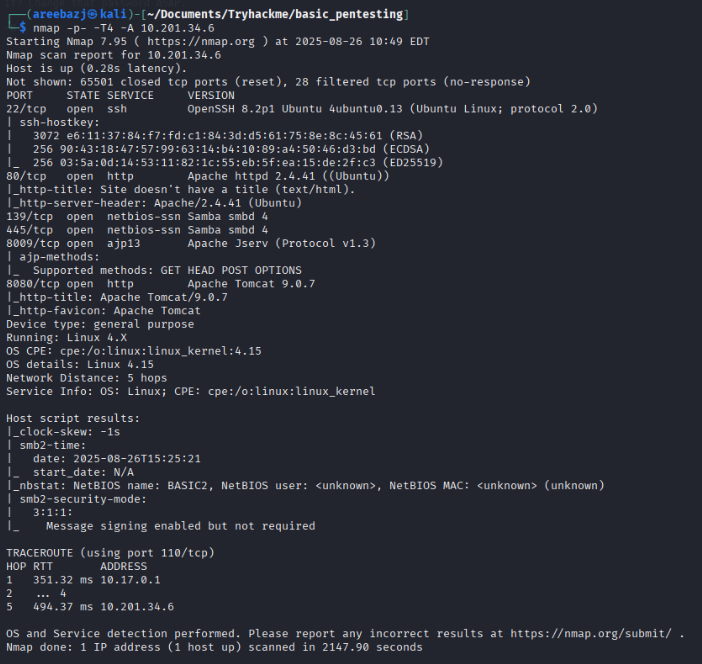
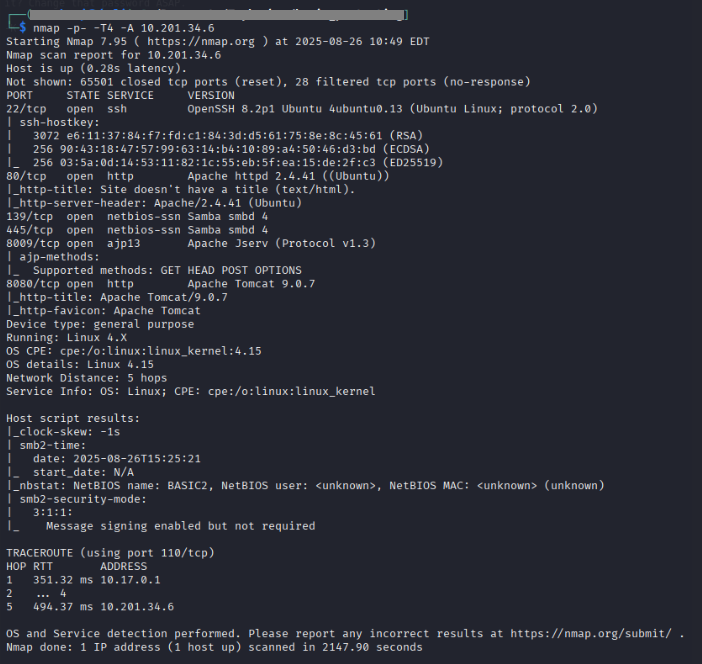
Added walkthrough for Basic Pentesting

Changed region(s): [[0.0299, 0.0, 0.5983, 0.0301]]

diff --git a/TryHackMe/Challenges/Basic Pentesting/walkthrough.md b/TryHackMe/Challenges/Basic Pentesting/walkthrough.md
@@ -9,10 +9,188 @@
 
 ![1](images/1.png)
 
+To solve this room we have to use following techniques:
+
+- brute forcing 
+
+- hash cracking 
+
+- service enumeration
+
+- Linux Enumeration
+
 ## Solution Walkthrough
 
+### 1- Deploy the machine and connect to our network
 
-![1](images/1.png)
+I used openvpn to connect to the network and then deployed the machine.
+
+### 2- Find the services exposed by the machine
+
+To find the answer of this question I did an nmap scan on the given IP using following command.
+
+`nmap -T4 <machine_ip>`
+
+This command gave us the following output .
+
+![2](images/2.png)
+
+There were alot of services but before diving deep in any of them I looked at the next question which is given below.
+
+### 3- What is the name of the hidden directory on the web server(enter name without /)?
+
+I visited the web page at port 80 but there wasn't anything interesting.
+
+![3](images/3.png)
+
+Then I opened the page source and saw the following comment.
+
+![4](images/4.png)
+
+Now we have to do directory brute forcing, for that I used OWASP dirbuster. It has a nice GUI interface you can also use some CLI tools like dirb or gobuster. 
+
+![5](images/5.png)
+
+Here I set the url to our target , then selected a wordlist . There were alot of wordlists already in my kali linux's dirbuster folder so I used a small one from that. I kept all the other things default. 
+
+![6](images/6.png)
+
+In just few seconds it gave me a directory called **development** that looked interesting . I kept the scan going on and visited this directory.
+
+![7](images/7.png)
+
+Here I find the following 2 files So , most probably this was the directory that we were looking for . I stopped my scan that was running in the background. Here is what the content of each file was:
+
+![8](images/8.png)
+
+Here we can see a coversation between 2 poeple J and K . From the conversation it seems like Apache struts and SMB are the 2 services that might be of some interest to us. They have also mentioned the version explicitly.
+
+![9](images/9.png)
+
+The next conversation shows that user J might have some weak credentials.
+
+At this point we have some suspicious services so to know a little more about them I tried the following nmap command.
+
+`nmap -p- -T4 -A <machine_ip>`
+
+It gave us detailed info about each service.
+
+![10](images/10.png)
+
+From here I got on a wrong track . Feel free to skip this part and jump to part 4. 
+
+I saw that apache tomcat 9.0.7 was running on port 8080 . I searched for it on the internet and found that it had a vulnerability. 
+
+![11](images/11.png)
+
+Then I also got a bit info about this from Rapid7.
+
+![12](images/12.png)
+
+I searched for it on msfconsole and found 2 things an exploit and an auxiliary module.
+
+![13](images/13.png)
+
+In my mind I was thinking of maybe we can read etc/shadow in some way as it had some weak creds . I ended up using this but after running it wasn't successful.
+
+![14](images/14.png)
+
+![15](images/15.png)
+
+![16](images/16.png)
+
+
+### 4- User brute-forcing to find the username & password
+
+From here I got back on track . Since SMB was running I used smbclient to access and list down all the SMB shares . 
+
+`smbclient -L //IP/ -N`
+
+here I used -N so that it will list all shares where anonymous access (access without password) is allowed.
+
+![17](images/17.png)
+
+Here I found a share named `Anonymous` and accessed it using the following command:
+
+`smbclient //IP/Anonymous -N`
+
+The above command listed all the commands I can use .I used the `l` command to list all the files and found a file named **staff.txt** then downloaded it using the `get <file_name>` command.
+
+
+### 5- What is the username?
+
+Here we had names of two users in the file and the one related to -J was correct.
+
+![18](images/18.png)
+
+I also tried another way for finding out the users by using enum4linux . Enum4linux is a tool for enumerating information from Windows and Samba systems. I used the following command to start enumeration.
+
+`enum4linux -a <machine_ip>`
+
+here I used the -a flag so that it can run all the options without me telling each flag seperately for users,shares etc.
+
+![20](images/20.png)
+
+![21](images/21.png)
+
+We can see in the above image that we again found both those users.
+
+### 6- What is the password?
+
+Now, we have to find the password . For this I used a tool called hydra. It is a fast, popular password-cracking tool used in cybersecurity. It carries out brute force or dictionary based attacks against passwords.
+
+For users we had two Jan and Kay so we can either put both of them in a file and use that file as a list of users whose password we have to crack.
+
+![19](images/19.png)
+
+Or just try one by one. I first tried to break Jan's password , for that I used the following command:
+
+`hydra -l jan -P /usr/share/wordlists/rockyou.txt <machine_ip> ssh`
+
+here `-l` is for username `-P` is for list of possible password i.e. wordlist. Here I used rockyou.txt which is a popular wordlist usually used in CTFs. ssh at the end is for defining that we are searching for passwords for SSH service.
+
+After just a little while we got our password.
+
+![22](images/22.png)
+
+
+### 7- What service do you use to access the server(answer in abbreviation in all caps)?
+
+we used the same service for which we searched the password for and used both username and password to login and we were successful.
+
+![23](images/23.png)
+
+### 8- Enumerate the machine to find any vectors for privilege escalation
+
+After going through the files I found a file pass.bk in the folder of another user Kay but it was owned by that user then, I also found a private ssh key for that user too.
+
+![24](images/24.png)
+
+### 9- What is the name of the other user you found(all lower case)?
+
+It's so obvious at this point, we found it the same time we found our first user.
+
+### 10- If you have found another user, what can you do with this information?
+
+Since, now we have the private key of the second user we can try logging in through his account using ssh.
+
+Then on my local pc I saved that key in a file named **id_rsa** . Then I changed the permissions to 600 which is necessary for RSA key files. Then I used john the ripper to crack this key and find password from it , for this I used the following commands.
+
+![25](images/25.png)
+
+Now i used the following command to log in through SSH and used the private key file to log in.
+
+`ssh -i id_rsa kay@<machine_ip>`
+
+Then entered the password and got access.
+
+![26](images/26.png)
+
+### 11- What is the final password you obtain?
+
+Now we were able to access the pass.bak file and got the password.
+
+![27](images/27.png)
 
 So, just like that we have now completed our room.
 
@@ -20,5 +198,9 @@ So, just like that we have now completed our room.
 
 Following are some tools that I used in solving this room.
 
-1- [exiftool](https://exiftool.org/)                 
-2- [wiGLE](https://wigle.net/)
+1- [Dirbuster](https://www.kali.org/tools/dirbuster/)                 
+2- [Nmap](https://nmap.org/)                  
+3- [enum4linux](https://www.kali.org/tools/enum4linux/)      
+4- [smbclient](https://www.samba.org/samba/docs/current/man-html/smbclient.1.html)         
+5- [John the Ripper](https://www.openwall.com/john/)
+
